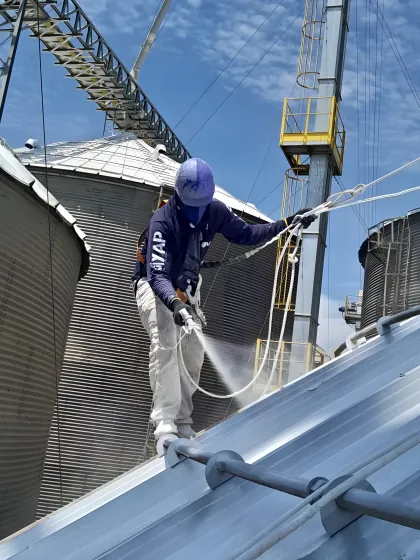
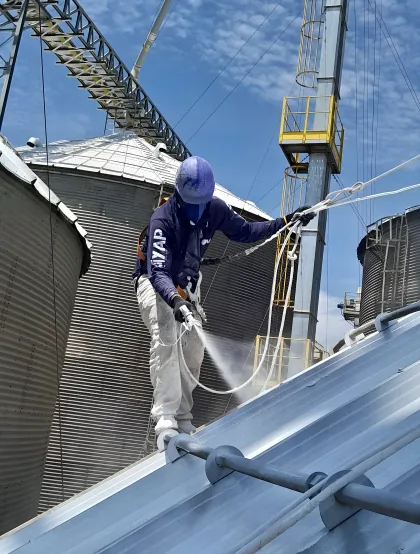
LP YAP: nova foto da equipe uniformizada e silo/reservatório refeitos a partir dos originais
- Seção 'Por que escolher a YAP': troca a foto do balancim por dois profissionais
  de uniforme YAP e cinto acompanhando a equipe no balancim (foto do site antigo,
  ainda não usada na LP), recorte 16:10.
- Faixa de silos: refeita a partir do original 1212x1600 com Real-ESRGAN, até 1800px.
- Reservatório com manta: refeito a partir do original 768x1024, versões 720/1440.

diff --git a/index.html b/index.html
@@ -14,7 +14,7 @@
       imagesrcset="assets/img/hero/pintura-predial-mobile-480.webp 480w, assets/img/hero/pintura-predial-mobile-760.webp 760w, assets/img/hero/pintura-predial-mobile-1140.webp 1140w" imagesizes="100vw">
 <link rel="preload" as="image" type="image/webp" media="(min-width: 768px)"
       imagesrcset="assets/img/hero/pintura-predial-desktop-800.webp 800w, assets/img/hero/pintura-predial-desktop-1120.webp 1120w, assets/img/hero/pintura-predial-desktop-1600.webp 1600w" imagesizes="62vw">
-<link rel="stylesheet" href="assets/css/style.css?v=49">
+<link rel="stylesheet" href="assets/css/style.css?v=50">
 <script src="assets/js/main.js?v=12" defer></script>
 </head>
 <body>
@@ -240,8 +240,8 @@
       </div>
       <div class="why-photos rv" data-d="1">
         <figure class="ph ph-wide"><picture>
-              <source type="image/webp" srcset="assets/img/pintura/balancim-equipe-640.webp 640w, assets/img/pintura/balancim-equipe-1120.webp 1120w" sizes="(min-width: 1024px) 560px, 100vw">
-              <img src="assets/img/pintura/balancim-equipe-640.jpg" srcset="assets/img/pintura/balancim-equipe-640.jpg 640w, assets/img/pintura/balancim-equipe-1120.jpg 1120w" sizes="(min-width: 1024px) 560px, 100vw" width="640" height="595" loading="lazy" decoding="async" alt="Equipe da YAP Soluções pintando a fachada de um prédio em um balancim">
+              <source type="image/webp" srcset="assets/img/pintura/equipe-predio-640.webp 640w, assets/img/pintura/equipe-predio-1200.webp 1200w" sizes="(min-width: 1024px) 560px, 100vw">
+              <img src="assets/img/pintura/equipe-predio-640.jpg" srcset="assets/img/pintura/equipe-predio-640.jpg 640w, assets/img/pintura/equipe-predio-1200.jpg 1200w" sizes="(min-width: 1024px) 560px, 100vw" width="640" height="400" loading="lazy" decoding="async" alt="Dois profissionais da YAP Soluções, de uniforme e cinto de segurança, acompanhando a equipe que pinta a fachada do prédio em um balancim">
             </picture></figure>
         <figure class="ph"><picture>
               <source type="image/webp" srcset="assets/img/pintura/predio-pintado-400.webp 400w, assets/img/pintura/predio-pintado-800.webp 800w" sizes="(min-width: 1024px) 340px, 55vw">
@@ -315,8 +315,8 @@
         </figure>
         <figure class="ph ph-wide rv" data-d="3">
             <picture>
-              <source type="image/webp" srcset="assets/img/impermeabilizacao/reservatorio-manta-640.webp 640w, assets/img/impermeabilizacao/reservatorio-manta-1152.webp 1152w" sizes="(min-width: 1024px) 640px, 100vw">
-              <img src="assets/img/impermeabilizacao/reservatorio-manta-640.jpg" srcset="assets/img/impermeabilizacao/reservatorio-manta-640.jpg 640w, assets/img/impermeabilizacao/reservatorio-manta-1152.jpg 1152w" sizes="(min-width: 1024px) 640px, 100vw" width="640" height="533" loading="lazy" decoding="async" alt="Tampa de um reservatório coberta com manta aluminizada, com galpões e silos ao fundo">
+              <source type="image/webp" srcset="assets/img/impermeabilizacao/reservatorio-manta-720.webp 720w, assets/img/impermeabilizacao/reservatorio-manta-1440.webp 1440w" sizes="(min-width: 1024px) 640px, 100vw">
+              <img src="assets/img/impermeabilizacao/reservatorio-manta-720.jpg" srcset="assets/img/impermeabilizacao/reservatorio-manta-720.jpg 720w, assets/img/impermeabilizacao/reservatorio-manta-1440.jpg 1440w" sizes="(min-width: 1024px) 640px, 100vw" width="720" height="960" loading="lazy" decoding="async" alt="Tampa de um reservatório coberta com manta aluminizada, com galpões e silos ao fundo">
             </picture>
         </figure>
       </div>
@@ -347,8 +347,8 @@
     </div>
     <div class="feat-media" aria-hidden="true">
       <picture>
-              <source type="image/webp" srcset="assets/img/silos/aplicacao-cobertura-420.webp 420w, assets/img/silos/aplicacao-cobertura-720.webp 720w" sizes="(min-width: 768px) 60vw, 100vw">
-              <img src="assets/img/silos/aplicacao-cobertura-420.jpg" srcset="assets/img/silos/aplicacao-cobertura-420.jpg 420w, assets/img/silos/aplicacao-cobertura-720.jpg 720w" sizes="(min-width: 768px) 60vw, 100vw" width="420" height="560" loading="lazy" decoding="async" alt="">
+              <source type="image/webp" srcset="assets/img/silos/aplicacao-cobertura-420.webp 420w, assets/img/silos/aplicacao-cobertura-720.webp 720w, assets/img/silos/aplicacao-cobertura-1200.webp 1200w, assets/img/silos/aplicacao-cobertura-1800.webp 1800w" sizes="(min-width: 768px) 60vw, 100vw">
+              <img src="assets/img/silos/aplicacao-cobertura-420.jpg" srcset="assets/img/silos/aplicacao-cobertura-420.jpg 420w, assets/img/silos/aplicacao-cobertura-720.jpg 720w, assets/img/silos/aplicacao-cobertura-1200.jpg 1200w, assets/img/silos/aplicacao-cobertura-1800.jpg 1800w" sizes="(min-width: 768px) 60vw, 100vw" width="420" height="554" loading="lazy" decoding="async" alt="">
             </picture>
     </div>
     <div class="wrap feat-wrap">
@@ -410,8 +410,8 @@
         </figure>
         <figure class="ph rv" data-d="3">
             <picture>
-              <source type="image/webp" srcset="assets/img/silos/aplicacao-cobertura-420.webp 420w, assets/img/silos/aplicacao-cobertura-720.webp 720w" sizes="(min-width: 1024px) 320px, 50vw">
-              <img src="assets/img/silos/aplicacao-cobertura-420.jpg" srcset="assets/img/silos/aplicacao-cobertura-420.jpg 420w, assets/img/silos/aplicacao-cobertura-720.jpg 720w" sizes="(min-width: 1024px) 320px, 50vw" width="420" height="560" loading="lazy" decoding="async" alt="Profissional com uniforme da YAP aplicando produto na cobertura de um silo">
+              <source type="image/webp" srcset="assets/img/silos/aplicacao-cobertura-420.webp 420w, assets/img/silos/aplicacao-cobertura-720.webp 720w, assets/img/silos/aplicacao-cobertura-1200.webp 1200w, assets/img/silos/aplicacao-cobertura-1800.webp 1800w" sizes="(min-width: 1024px) 320px, 50vw">
+              <img src="assets/img/silos/aplicacao-cobertura-420.jpg" srcset="assets/img/silos/aplicacao-cobertura-420.jpg 420w, assets/img/silos/aplicacao-cobertura-720.jpg 720w" sizes="(min-width: 1024px) 320px, 50vw" width="420" height="554" loading="lazy" decoding="async" alt="Profissional com uniforme da YAP aplicando produto na cobertura de um silo">
             </picture>
         </figure>
       </div>

diff --git a/assets/css/style.css b/assets/css/style.css
@@ -464,7 +464,7 @@ body.menu-open{overflow:hidden}
 .why-cta{margin-top:26px}
 .why-photos{display:grid;grid-template-columns:1.3fr 1fr;gap:12px;align-items:end}
 .why-photos .ph:nth-child(2) img{aspect-ratio:4/5}
-.why-photos .ph-wide img{aspect-ratio:2/1;object-position:50% 18%}
+.why-photos .ph-wide img{aspect-ratio:16/10;object-position:50% 50%}
 .why-photos .ph:last-child img{aspect-ratio:3/4}
 .other-copy .btn{margin-top:24px;max-width:100%}
 .other-services{display:grid;grid-template-columns:repeat(2,minmax(0,1fr));gap:12px;margin:0;padding:0;list-style:none}
